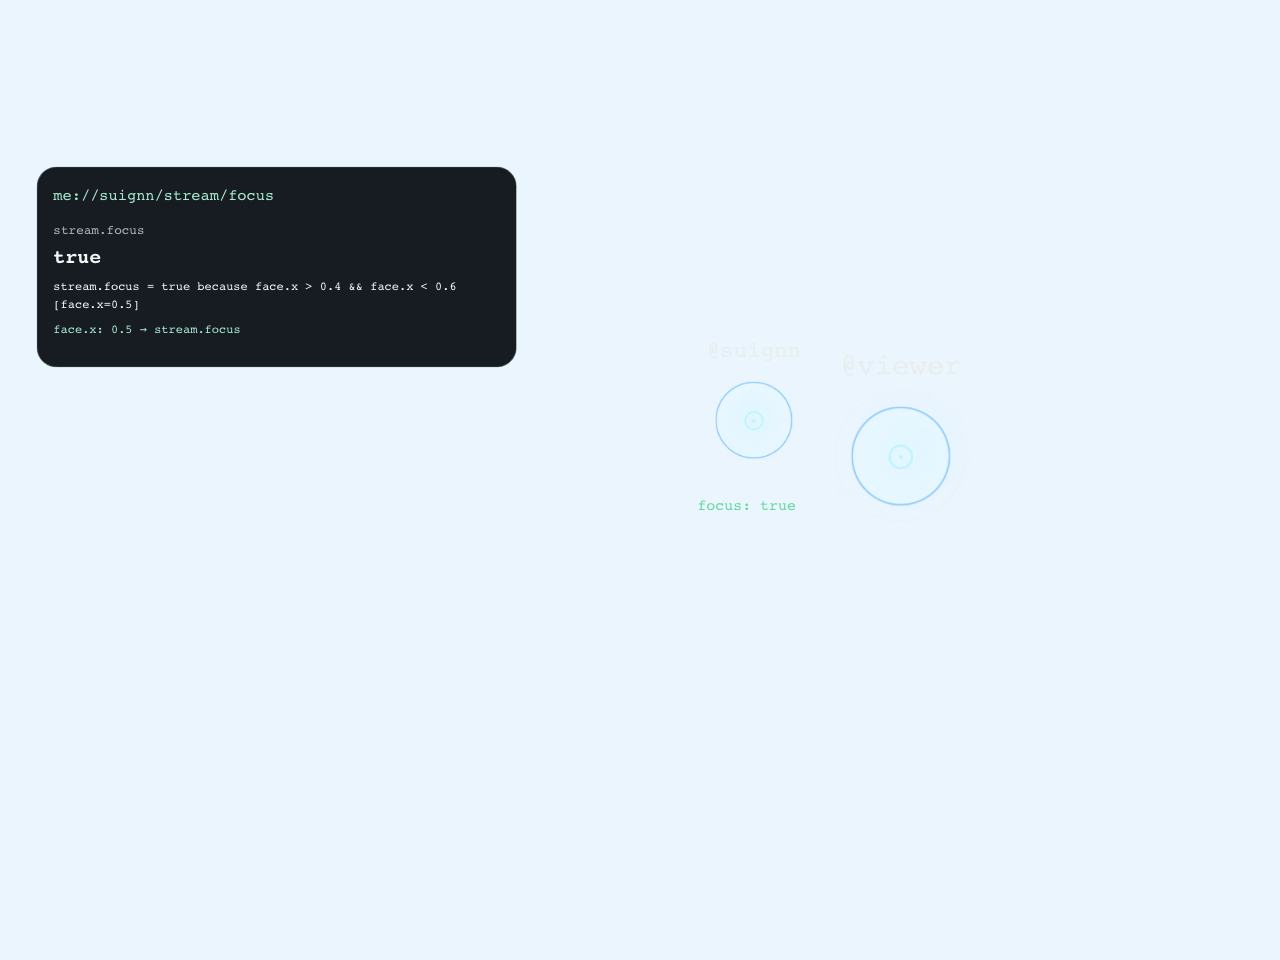
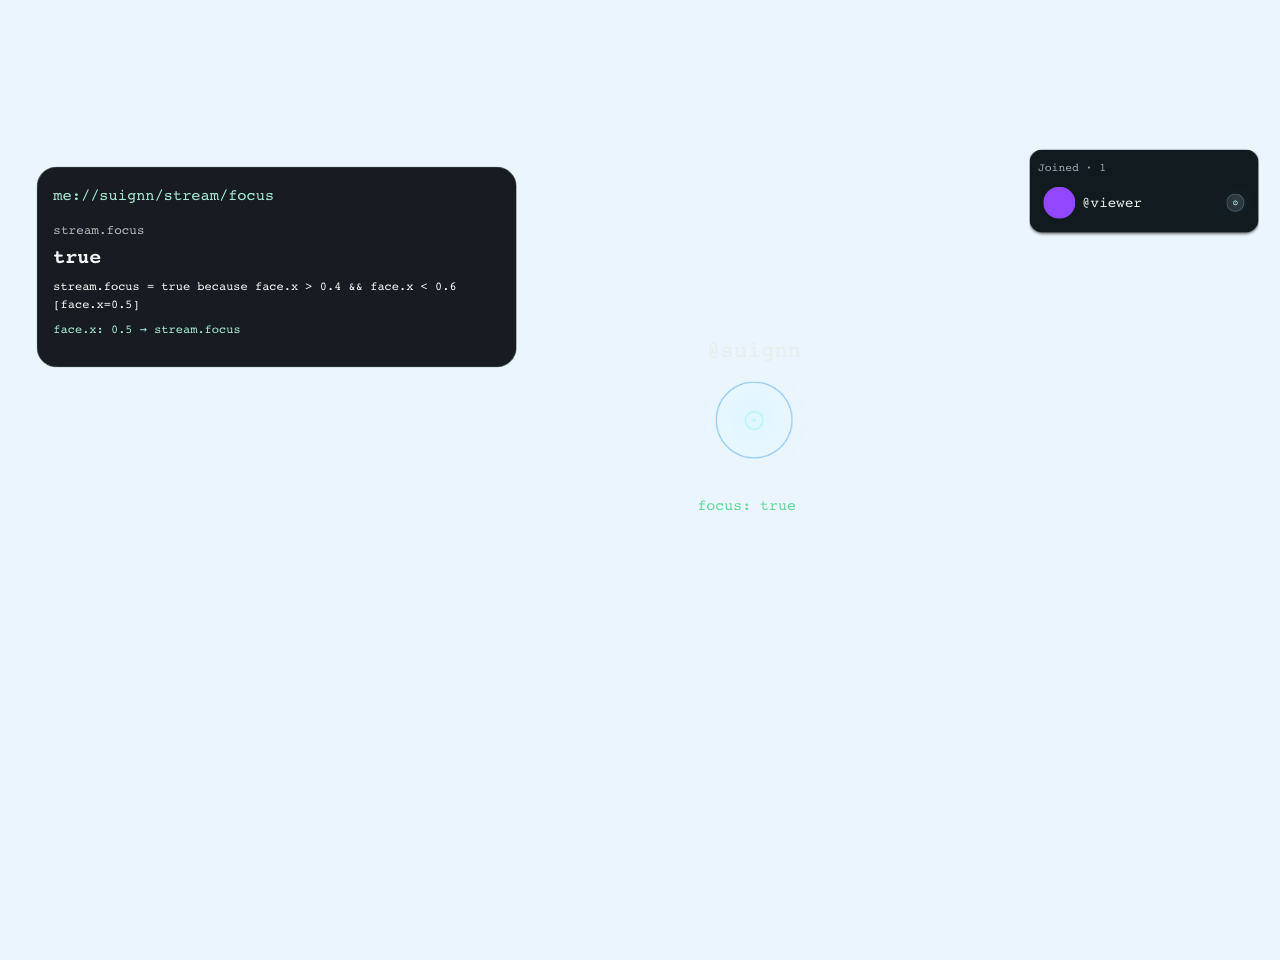
feat: show joined viewers in compact overlay rail

Changed region(s): [[0.7812, 0.1562, 1.0, 0.25], [0.6875, 0.4688, 0.7188, 0.5]]

diff --git a/overlay/spiders.js b/overlay/spiders.js
@@ -1,3 +1,4 @@
+import { ViewerRail } from './viewer-rail.js';
 import { TwitchCard, TwitchProfile } from './twitch-card.js';
 import { receiveFace, useFace } from './face-state.js';
 import { FacePoints } from './face-points.js';
@@ -47,7 +48,7 @@ function BubbleNavigation({ anchor, kernel, path, selectPath, onClose }) {
     h(TwitchCard, { kernel, path, selectPath, onClose }));
 }
 const MemoMonad = React.memo(G.Monad);
-function Kernel({ kernel, index, count, selected, onSelect }) {
+function Kernel({ kernel, index, count, selected, onSelect, rightInset = 0 }) {
   const face = useFace();
   const columns = Math.max(1, Math.ceil(Math.sqrt(count * 16 / 9))), rows = Math.ceil(count / columns);
   const rowCount = Math.min(columns, count - Math.floor(index / columns) * columns);
@@ -57,7 +58,7 @@ function Kernel({ kernel, index, count, selected, onSelect }) {
   const fitWidth = face ? Math.min(1920, 1080 * face.aspect) : 1920;
   const fitHeight = face ? Math.min(1080, 1920 / face.aspect) : 1080;
   const scale = tracked ? 2.8 : Math.min(3.6, 1600 / columns / 145, 780 / rows / 100);
-  const x = tracked ? Math.max(44 * scale, Math.min(1920 - 44 * scale, (1920 - fitWidth) / 2 + face.x * fitWidth + side.current * 160)) : (index % columns + 0.5 + (columns - rowCount) / 2) * 1600 / columns + 160;
+  const x = tracked ? Math.max(44 * scale, Math.min(1920 - rightInset - 44 * scale, (1920 - fitWidth) / 2 + face.x * fitWidth + side.current * 160)) : (index % columns + 0.5 + (columns - rowCount) / 2) * 1600 / columns + 160;
   const y = tracked ? Math.max(64 * scale, Math.min(1080 - 44 * scale, (1080 - fitHeight) / 2 + face.y * fitHeight - 90)) : (Math.floor(index / columns) + 0.5) * 780 / rows + 110;
   const focusNode = kernel.graph?.nodes.find(node => node.path === 'stream.focus'), focus = focusNode?.value;
   return h('g', { 'data-focus': focusNode ? (focus === undefined ? 'undefined' : String(focus)) : undefined, 'data-me-id': kernel.id, 'data-me-bubble': kernel.id, 'data-face-follow': tracked ? 'true' : undefined,
@@ -190,12 +191,15 @@ function App() {
     if (selected !== kernel.id) { select(kernel.id); selectPath('twitch'); }
     setBubbleAnchor(selected === kernel.id && bubbleAnchor ? null : anchor);
   };
+  const streamer = kernels.find(k => k.owner === channelInfo?.channel) || kernels.find(k => k.graph?.nodes.some(n => n.path === 'stream.focus'));
+  const participants = kernels.filter(k => k.id !== streamer?.id);
   const scene = h(Box, { component: 'main', sx: { minWidth: 0, minHeight: 0, height: '100%', position: 'relative', color: 'text.primary' } },
     h(SceneTint, { transparent }),
     h('svg', { id: 'kernels-scene', onClick: event => { if (event.target === event.currentTarget) { select(null); setBubbleAnchor(null); } }, viewBox: '0 0 1920 1080', width: '100%', height: '100%', role: 'img', 'aria-label': 'Community kernels', style: { display: 'block', position: 'relative' } },
       h(FacePoints),
       transparent ? h(StreamPresentation, { view: presented, kernel: kernels.find(k => k.id === presented?.id) }) : null,
-      kernels.map((kernel, index) => h(Kernel, { key: kernel.id, kernel, index, count: kernels.length, selected: selected === kernel.id, onSelect: event => openKernel(kernel, event.currentTarget) }))),
+      streamer ? h(Kernel, { key: streamer.id, kernel: streamer, index: 0, count: 1, rightInset: participants.length ? 384 : 0, selected: selected === streamer.id, onSelect: event => openKernel(streamer, event.currentTarget) }) : null,
+      h(ViewerRail, { kernels: participants, selected, transparent, onSelect: openKernel })),
     !transparent && current && bubbleAnchor ? h(BubbleNavigation, { anchor: bubbleAnchor, kernel: current, path, selectPath, onClose: () => setBubbleAnchor(null) }) : null,
     !transparent && !kernels.length ? h(Box, { sx: { position: 'absolute', inset: 0, display: 'grid', placeContent: 'center', textAlign: 'center', px: 2, pointerEvents: 'none' } },
       h(Typography, { sx: { ...mono, fontSize: 24 } }, 'Your .me starts here.'), h(Typography, { sx: { ...mono, color: 'text.secondary', mt: 1 } }, 'Type !me in Twitch chat.')) : null);

diff --git a/overlay/viewer-rail.js b/overlay/viewer-rail.js
@@ -1,0 +1,23 @@
+// Declared chat participants; this is not Twitch's live viewer count.
+const R = window.React, h = R.createElement, G = window.GUI;
+const { Box, Button, Avatar, Typography } = G.Atoms;
+const Monad = R.memo(G.Monad), limit = 6;
+export function ViewerRail({ kernels, selected, onSelect, transparent }) {
+  if (!kernels.length) return null;
+  const visible = kernels.slice(0,limit), extra = kernels.length-visible.length;
+  return h('foreignObject', { x: 1544, y: 44, width: 344, height: 82+visible.length*74+(extra?40:0), 'data-viewer-rail': true, pointerEvents: transparent?'none':undefined },
+    h(Box, { component:'section', 'aria-label':'Joined participants', sx:{p:1.5,bgcolor:'background.paper',color:'text.primary',border:1,borderColor:'divider',borderRadius:2,boxShadow:2} },
+      h(Typography,{sx:{fontFamily:'monospace',fontSize:17,color:'text.secondary',mb:1}},`Joined · ${kernels.length}`),
+      h(Box,{role:'list',sx:{display:'grid',gap:.75}},visible.map(kernel=>{
+        const profile=Object.fromEntries((kernel.graph?.nodes||[]).filter(n=>n.path.startsWith('twitch.profile.')).map(n=>[n.path.slice(15),n.value]));
+        return h(Box,{key:kernel.id,role:'listitem',className:'viewer-arrival'},
+          h(Button,{component:transparent?'div':'button',type:transparent?undefined:'button','data-me-id':kernel.id,'data-me-bubble':kernel.id,'data-viewer-row':kernel.id,'data-me-label':kernel.owner,
+            role:transparent?'presentation':undefined,tabIndex:transparent?-1:0,'aria-label':`.me kernel @${kernel.owner}`,'aria-pressed':transparent?undefined:selected===kernel.id,
+            onClick:transparent?undefined:event=>onSelect(kernel,event.currentTarget),
+            sx:{width:'100%',minWidth:0,p:1,gap:1.25,justifyContent:'flex-start',textTransform:'none',color:'text.primary',borderRadius:1,bgcolor:selected===kernel.id?'action.selected':'transparent',cursor:transparent?'default':'pointer'}},
+            h(Avatar,{src:profile.profileImageUrl||undefined,alt:`${profile.displayName||kernel.owner}'s Twitch profile`,imgProps:{referrerPolicy:'no-referrer'},sx:{width:48,height:48,fontSize:22,flexShrink:0}},kernel.owner.slice(0,1).toUpperCase()),
+            h(Typography,{component:'span',sx:{fontFamily:'monospace',fontSize:21,minWidth:0,flex:1,overflow:'hidden',textOverflow:'ellipsis',whiteSpace:'nowrap',textAlign:'left'}},`@${kernel.owner}`),
+            h(Box,{className:'me-visual','data-viewer-orb':kernel.id,'aria-hidden':true,sx:{width:28,height:28,flexShrink:0,pointerEvents:'none'}},h(Box,{sx:{width:64,height:64,transform:'scale(.4375)',transformOrigin:'top left'}},h(Monad,{kind:'me',variant:'bubble',mode:'contained',seed:kernel.owner,label:`@${kernel.owner} · .me`,solid:true,core:'flat',ring:1,tooltip:false})))));
+      })),
+      extra?h(Typography,{'data-viewer-overflow':extra,sx:{fontFamily:'monospace',fontSize:18,color:'text.secondary',mt:1}},`+${extra} more`):null));
+}

diff --git a/overlay/overlay.css b/overlay/overlay.css
@@ -38,3 +38,8 @@ html.spiders-web #root { width: 100%; height: 100%; }
 
 /* Keep the OBS logical viewBox while fitting smaller browser previews. */
 html.kernels-obs, html.kernels-obs body, html.kernels-obs #root { width: 100%; height: 100%; }
+
+/* Join feedback runs once; participant rows have no continuous motion. */
+@keyframes viewer-arrival { from { opacity: 0; transform: translateX(8px); } to { opacity: 1; transform: translateX(0); } }
+.viewer-arrival { animation: viewer-arrival 180ms ease-out both; }
+@media (prefers-reduced-motion: reduce) { .viewer-arrival { animation: none; } }

diff --git a/evidence/SESSION.md b/evidence/SESSION.md
@@ -743,3 +743,10 @@ User noticed jabellae inherited focus=true from the streamer's camera. That was 
 Viewer declaration/default explain now presents/explains the viewer's own Twitch login. Explicit requests for absent camera paths return Path not available in your kernel, not another person's result. Owner focus remains selectable through the inspector and broadcast presentation. Updated help/README/video narration to distinguish these roles. No automatic viewer camera feature introduced.
 
 Integrated live-graph and focus checks pass with real kernel/GUI/server/WS and simulated Twitch/coordinates: verified owner has face/focus; existing/late viewers do not; no viewer badge/follow; face-path HTTP404; chat cannot read absent focus as own; native owner true/false/undefined and publication remain; rebinding removes prior owner's camera graph. One synthetic rapid update initially hit existing90ms face limit; helper now checks accepted status and retries after110ms on429. All19 server and10 original tests pass. Restarted only codex-me on verified-free3017 with saved tokens; camera was off and remained off. Real API shows owner suignn roots twitch/face/stream. OBS was already offline and left offline; refreshed its source. Viewer entries are session-only; user informed jabellae must redeclare!me after restart. No real chat messages, broadcast actions, new scopes, credential publication or package-lock.json changes included. Publishing this ownership correction to main.
+
+
+### 2026-11-02 — Compact participant rail inside the broadcast scene
+
+User approved moving declared non-streamer participants into a compact right-side list inside the video overlay. Added public Twitch avatars, usernames and small native GUI orbs, capped at six rows with an overflow count. The separate streamer companion keeps its face-follow behavior and avoids the rail area. Web rows open the existing participant card and coordinate selection without switching the active sidebar; OBS rows are noninteractive. No participant face/focus data or camera controls were added. Arrival animation runs once and honors reduced motion.
+
+Integrated offline live-graph check passes with eight simulated Twitch joins: six visible rows and +2 more, real GUI/server/WS, avatar rendering, correct card selection, no sidebar switch, separate streamer and OBS presentation-only rows. Focus check also passes. Fixture images are synthetic evidence, not a real Twitch rehearsal. Fixed a test-helper name collision with node:path join before the successful rerun. Frontend-only change: reloaded the app and refreshed the confirmed OBS Browser source; no server restart, kernel reset, real chat message or broadcast Start/Stop. package-lock.json remains outside this change.

diff --git a/README.md b/README.md
@@ -192,6 +192,12 @@ The web panel has three window modes: **docked** (full-height sidebar that reser
 
 The transparent kernel source keeps its logical 1920×1080 SVG viewBox but fits the browser viewport. In OBS use a 1920×1080 Browser source as before; smaller browser previews now keep the bubble visible. A regular browser may show white behind transparency; no opaque background is added to the OBS output.
 
+## Joined participants in the overlay
+
+Viewers who declare themselves with `!me` appear in a compact list on the right of the scene, with their public Twitch avatar, username and a small GUI .me orb. The list shows up to six rows plus an overflow count. This counts declared participants in the current server session, not Twitch's online viewers. In the web app, clicking a row opens that participant's existing card and selects its kernel without switching the active sidebar. In the transparent OBS source the list is visual only. The channel owner's larger companion stays separate; camera facts and `stream.focus` remain exclusive to that owner.
+
+Offline verification with simulated Twitch joins: `npm run check:live` (set `CHROME` to your installed Chrome executable). The fixture in `evidence/participants/` checks eight joins, six visible rows, overflow, avatars, selection, OBS behavior and camera isolation.
+
 ## Theme-linked scene tint
 
 The circle at the scene's top left uses the new GUI **OverlaySwatch** source. Drag horizontally for hue and vertically for opacity; double-click restores the current theme color. Initial opacity is 18%. Only the scene is tinted; the chat, navigation and inspector remain untouched. The transparent source paints the same alpha layer without showing its editing circle. Editor settings are saved per GUI theme/mode. The authenticated channel owner's resolved HSL color/opacity is now relayed through localhost:3017 to OBS over WebSocket, so its separate browser storage and theme do not diverge. Drag updates are coalesced at 100 ms; theme changes and double-click reset share the resolved color too. Reloading the OBS source replays the latest server value. The OBS source has no editor or independent saved tint; before a host publishes, its layer is transparent. Opacity 0 means no visible tint;100 covers the camera completely. This changes the OBS Browser source composition; Twitch's player shows it after broadcast playback delay. Host publication requires exact Origin, CSRF and authenticated broadcaster ownership. Only four bounded HSL/alpha numbers are accepted; logout clears the shared tint. Server state is session-only; the web editor republishes its saved value after reload.
